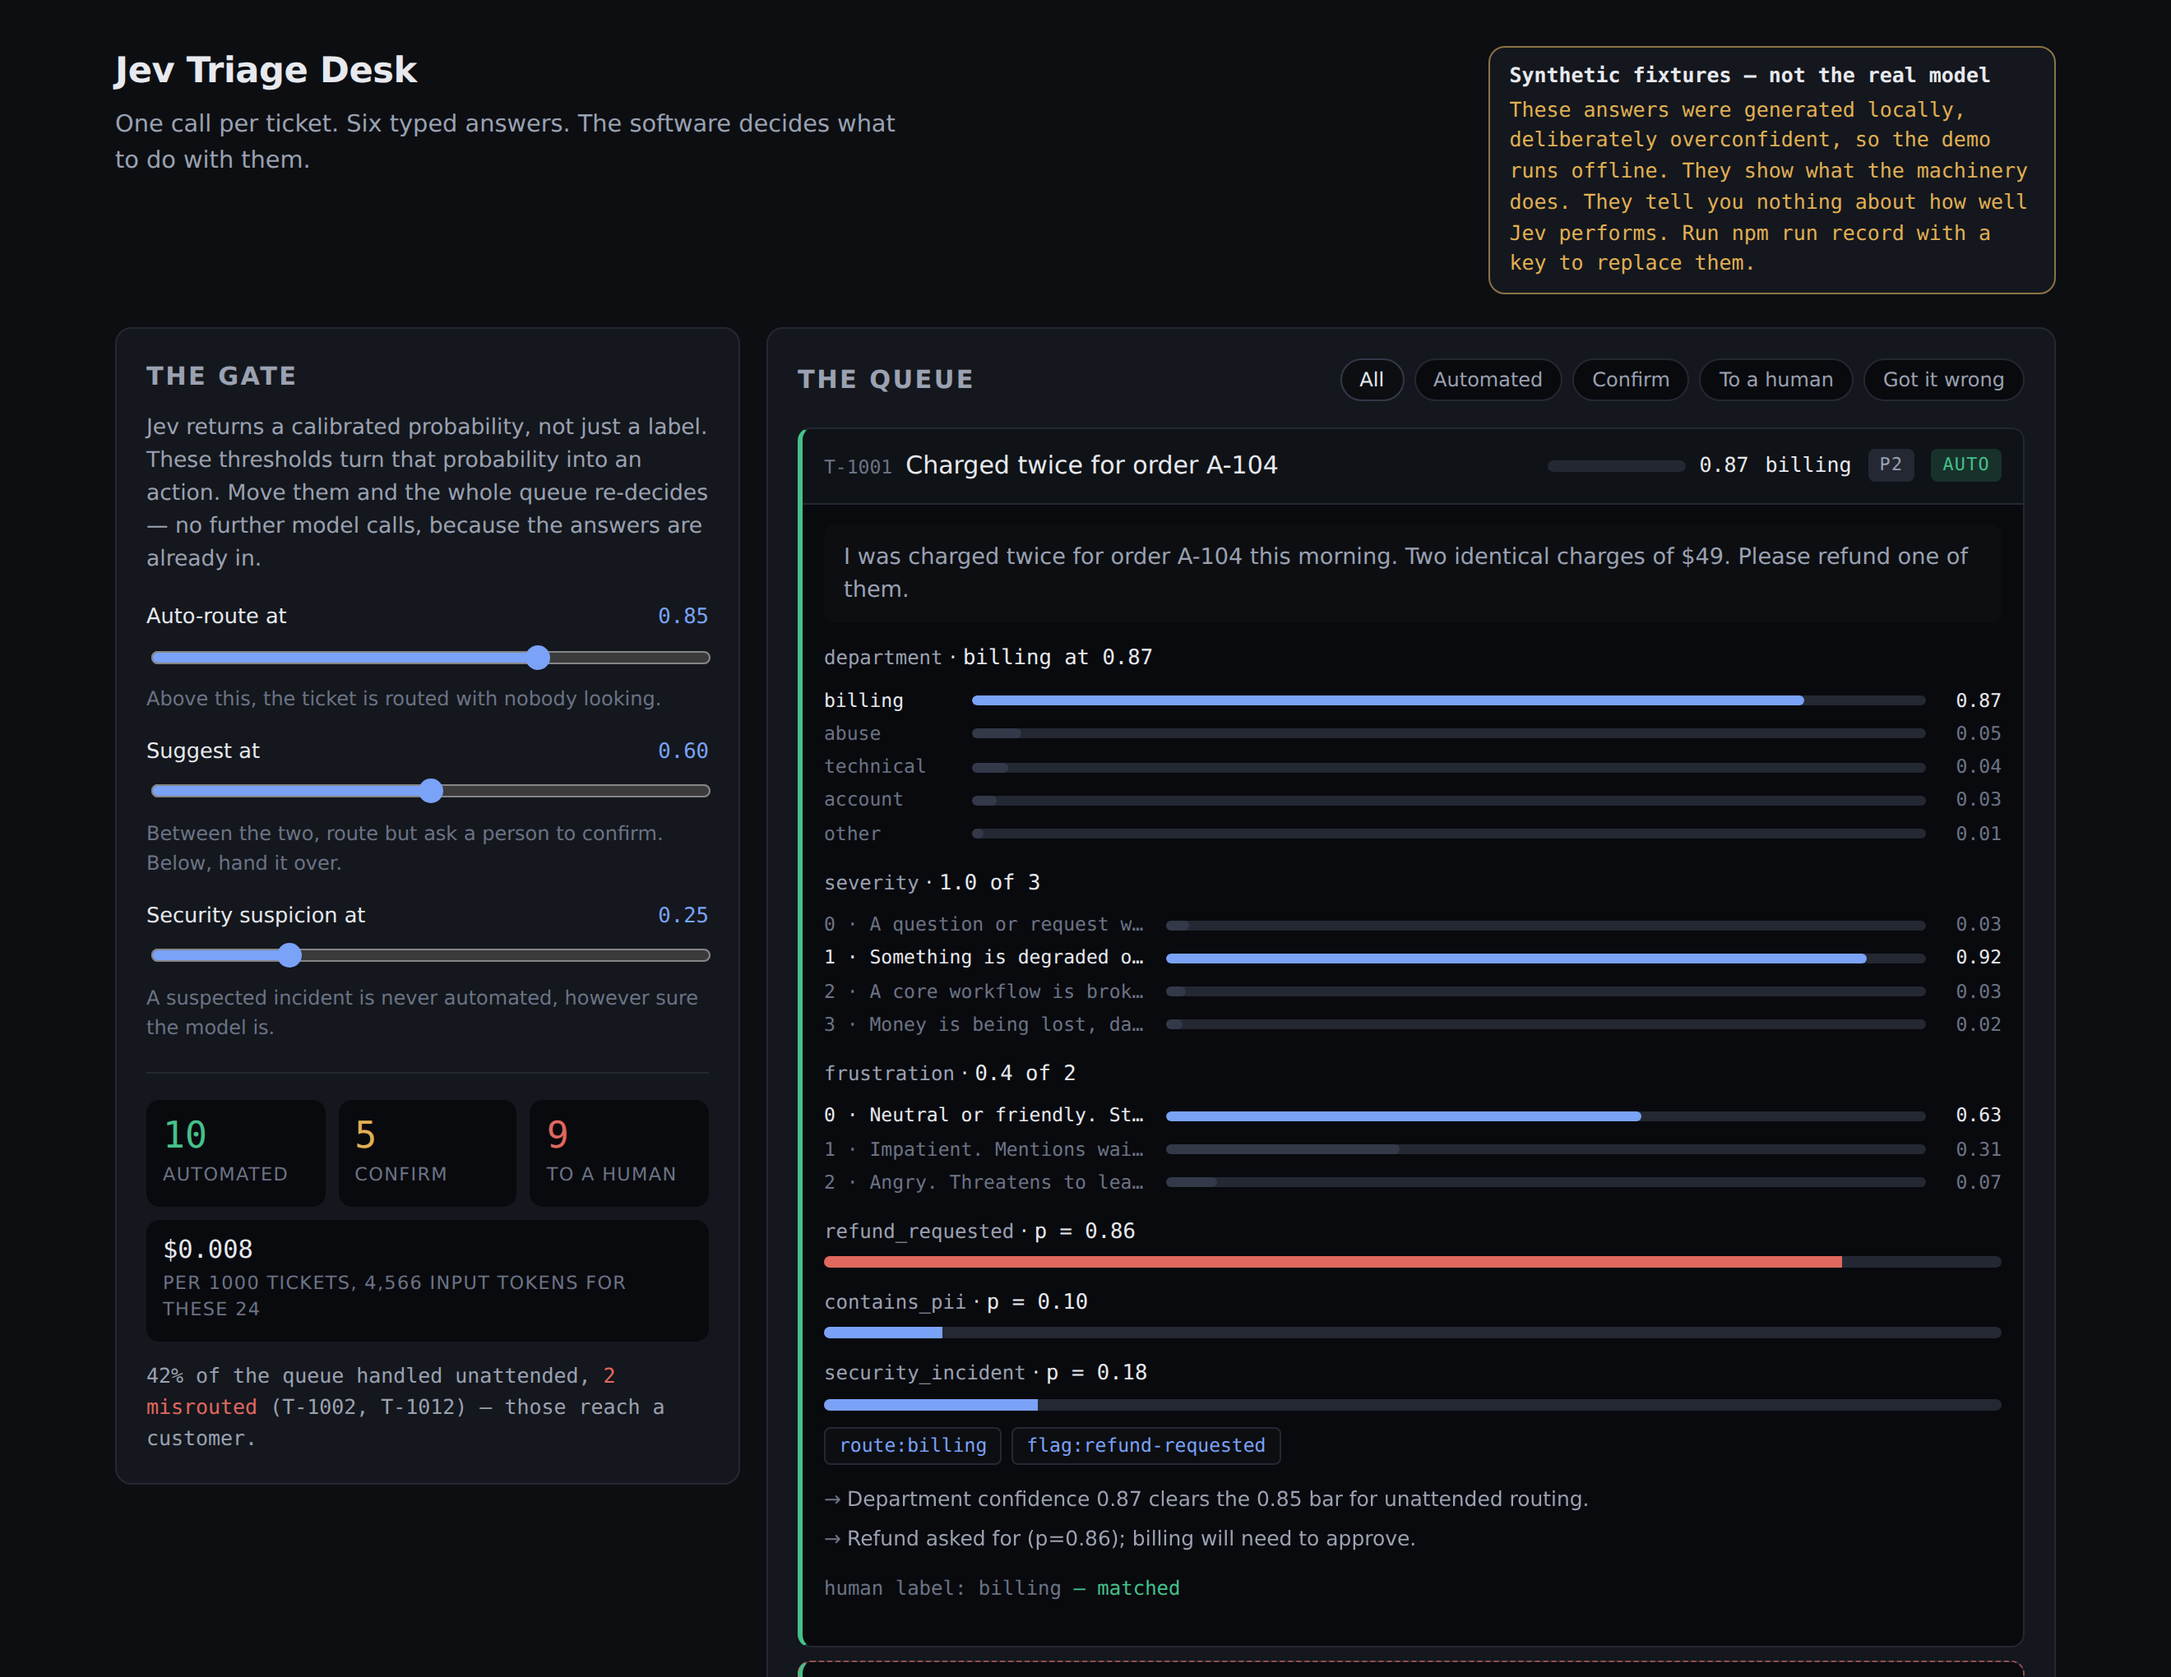
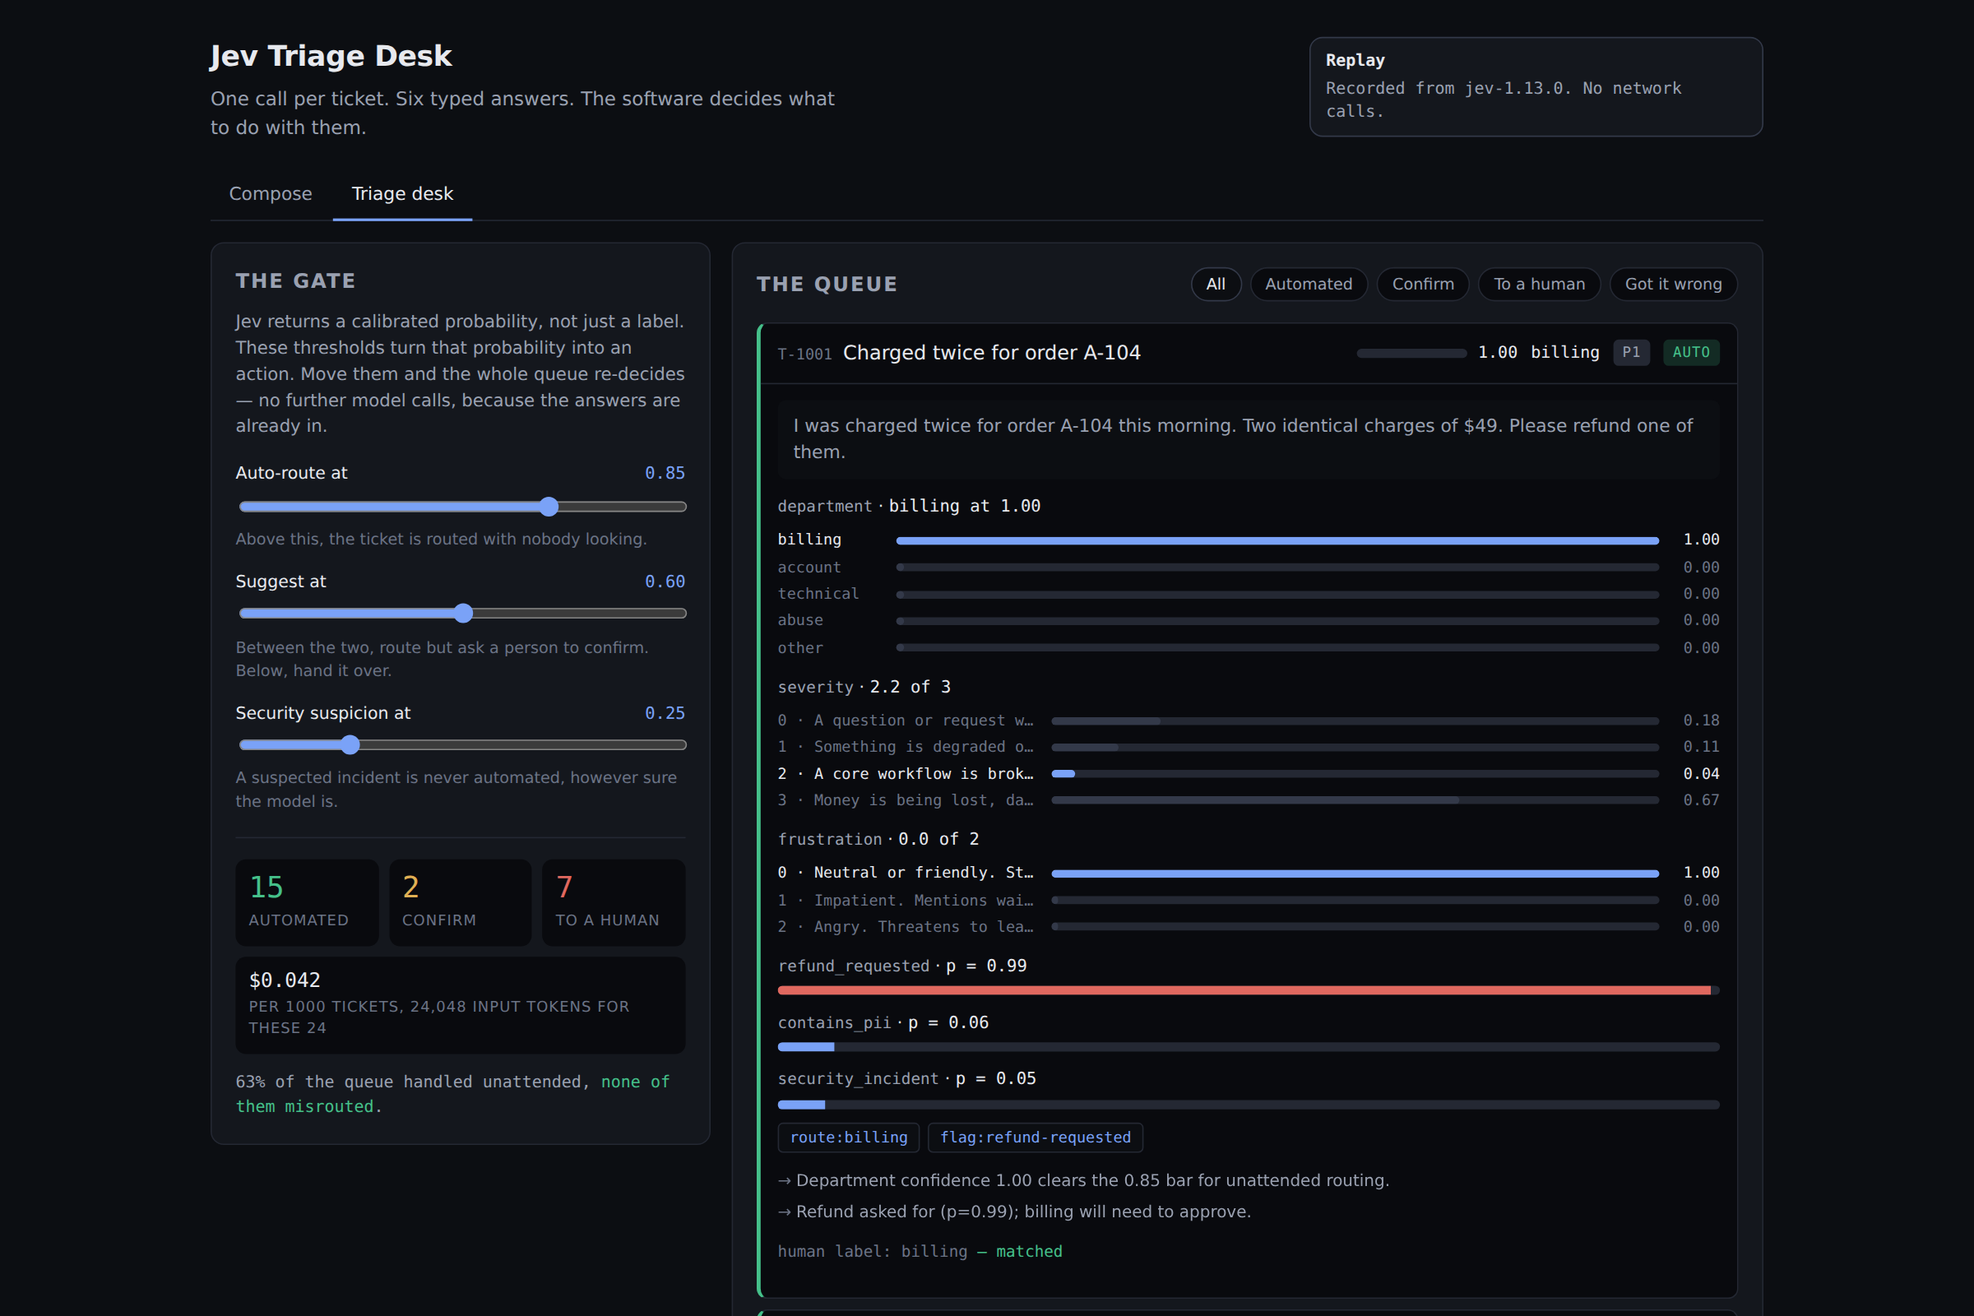
Show the credential block, and reshoot the stale screenshots
Adds the moment the Send button locks: the same draft twenty words in, where
the config gets pasted and contains_secret goes to 0.98.

The other two images were captured before the fixtures were recorded, so both
still carried the old warning banners -- "Synthetic fixtures, not the real
model" on the triage desk and "No key, no recording, using a stand-in" on the
compose demo -- along with numbers from the synthetic generator. Anyone reading
the page would have been told the demo was something it is no longer. Both are
retaken against the recording.

Claude-Session: https://claude.ai/code/session_01QKq1SFGJiaGAGtJmrebyvF

diff --git a/README.md b/README.md
@@ -18,6 +18,12 @@ keyboard and your screen. A 70-500ms one can.
 
 ![Before you hit send](docs/compose.png)
 
+The gate scales to what the mistake costs. A reply that reads a little sharp gets a word of
+warning; a live credential cannot be taken back, so that one blocks outright. This is the
+same draft twenty words in, at the moment the config gets pasted:
+
+![Send blocked on a credential](docs/compose-credential.png)
+
 ### The triage desk — `/triage.html`
 
 A queue of support tickets, one call each answering six questions. The software decides,
